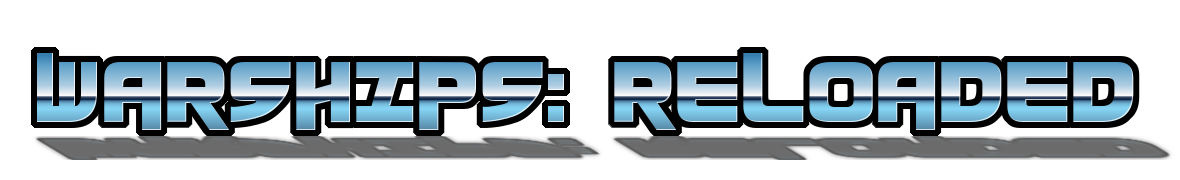
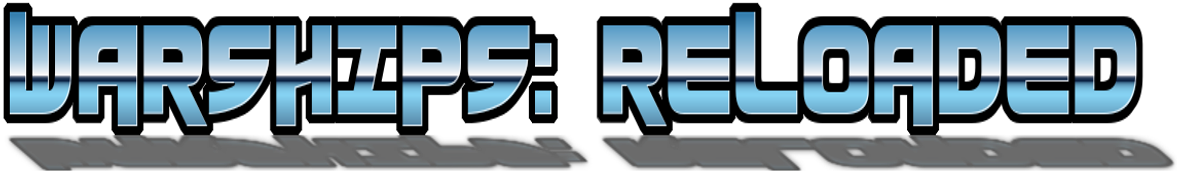
Update title positioning.

diff --git a/src/main/java/com/futuresailors/battleships/view/MainMenuPanel.java b/src/main/java/com/futuresailors/battleships/view/MainMenuPanel.java
@@ -59,9 +59,8 @@ public class MainMenuPanel extends JPanel {
 	    ImageIcon bg = UIHelper.resizeImage("/images/background1.jpg", WIDTH, HEIGHT);
 	    g.drawImage(bg.getImage(), 0, 0, null);
 	    
-	    ImageIcon title = UIHelper.resizeImage("/images/Title.png", 1200, 300);
-	    g.drawImage(title.getImage(), 40, -39, null);
+	    //Draw the title.
+	    ImageIcon title = UIHelper.resizeImage("/images/Title.png", 1100, 150);
+	    g.drawImage(title.getImage(), (WIDTH / 2) - 550, 10, null);
 	}
-	
-	
 }
